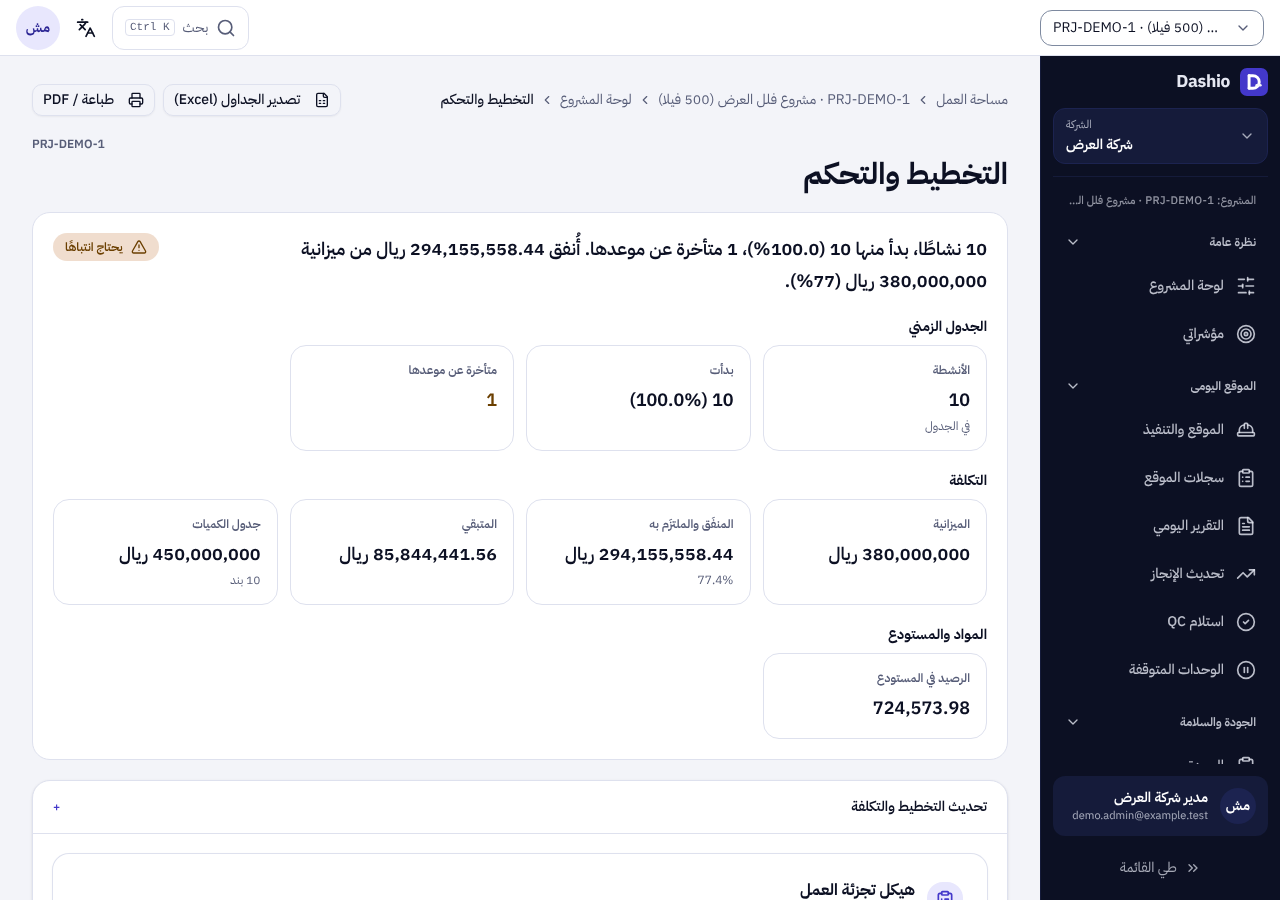
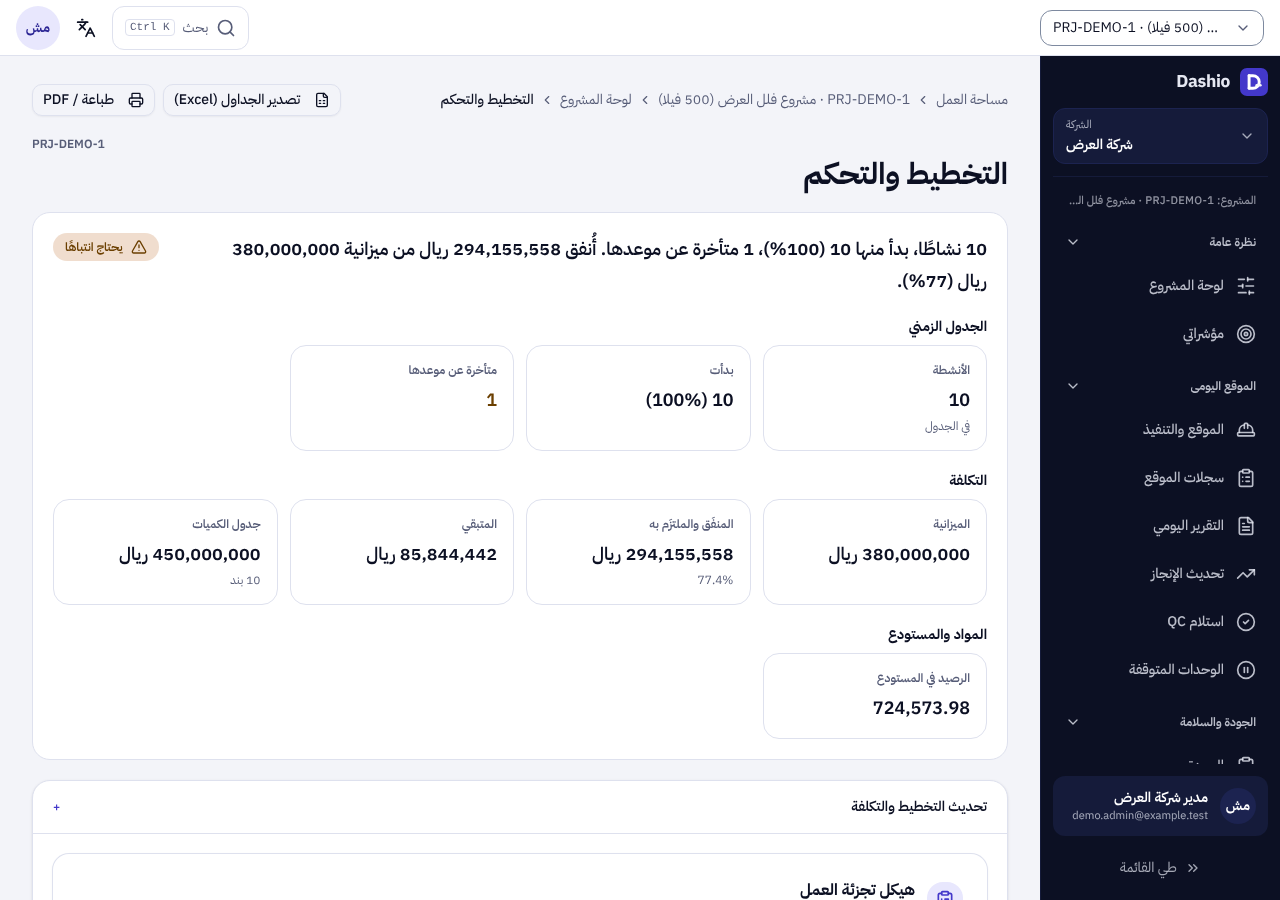
Q-64 batch 1: STATE entry, and the final screenshots (before and after, Arabic 390 and 1280)
Claude-Session: https://claude.ai/code/session_01WeudDb4hqtds8wNe44M1oW

diff --git a/docs/STATE.md b/docs/STATE.md
@@ -69,6 +69,15 @@
 | حدود معلنة: (أ) لا مقارنة لسطر «الإجمالي العام» في الملف بمجموع البنود (عمود المبلغ ليس من حقول BOQ)؛ (ب) شكل «تصدير P6 إلى Excel» ما زال بلا نسخة في المكتبة: مستورد الجدول الزمني من Excel يقبل ورقة واحدة بعناوين القالب، وتصدير P6 أوراق متعددة (TASK وPROJWBS…) — يحتاج قارئًا، لا اختبارًا فقط | `OPEN` | — |
 | البوابات والتدقيق | `PROVEN` (2026-11-26) | check · build · test 4561/0 · coverage:trpc · db:baseline:check · test:db 1028/0 · الرحلات 42/0. تدقيق الواجهة `/projects/:t/:p/baseline` بالعربية والإنجليزية والأردية: hard 0 |
 
+### Q-64 (الدفعة 1): صفحة «التخطيط والتحكم» تُفهم من أول نظرة (2026-11-26، المبرمج أ، واجهة بلا خادم ولا ترحيلة؛ المراجع د)
+
+| البند | الحالة | الدليل |
+|---|---|---|
+| شكوى المالك: بطاقات «0.000 / 0.000» بلا عملة ولا معنى، «0 / 31 أنشطة متأخرة / متعثرة» غامضة، نصوص داخلية («فجوات البيانات التي تمنع قرارًا كاملًا»، «الناقص: لقطة EVM»، «قراءة مشتقة فقط»)، وهيكل عمل قائمة مسطحة بـ1413 سطرًا كلها «0.00%»، والرابط ينتهي بـ`#manager-assurance`. **المعالجة:** (1) `PlanningControlCenter` أُعيد بناؤه: **جملة واحدة** بلغة مهندس التخطيط من البيانات («31 نشاطًا، بدأ منها 3 (9.7%)، 2 متأخرة عن موعدها.» وإن وُجدت ميزانية يراها القارئ: «أُنفق X من ميزانية Y (Z%)») من `planningHeadline` في `client/src/lib/planningControl.ts`؛ (2) أقسام بالترتيب: الجدول الزمني ← التكلفة ← المواد والمستودع، **القسم لا يظهر إلا إن وُجد ما يقال فيه**؛ (3) لا بطاقة بلا بيانات: الناقص **خطوة واحدة بزرّها** («لا ميزانية بعد» ← «ارفع الميزانية»؛ «لا جدول زمني بعد» ← «ارفع الجدول») للقارئ الذي يملك الاستيراد، وجملة بلا زر لمن لا يملكه، وجملة واحدة لمن لا يرى المبالغ (لا خطوة ميزانية ولا مبلغ)؛ (4) المبالغ بالريال كاملة من ألف فأكثر (294,155,558 لا 294,155,558.44) والنسب بلا كسر زائد (100% لا 100.0%) والكميات كما هي (12 لا 12.000)؛ (5) **هيكل العمل شجرة** (`client/src/components/WbsTree.tsx` + `client/src/lib/wbsTree.ts`): المستوى الأول مفتوح، لكل عقدة عدد أبنائها ونشاطاتها (مجموع ما تحتها) وأول بدء وآخر انتهاء، بحث برقم البند أو اسمه يُبقي المطابق ومساره، وتُقصَّر نتائج البحث عند 200 سطر بعبارة تقول ذلك؛ **«0.00%» وقيمة مخططة صفرية لم يقِسها أحد لا تظهر**؛ (6) نصوص الصفحة الداخلية أُعيدت بلغة المستخدم بالعربية والإنجليزية والأردية (ومنها إشعار «الناقص: لقطة EVM» صار «ما زال ناقصًا: قياس أداء الجدول والتكلفة (القيمة المكتسبة) وتقييم صحة المشروع.»)؛ (7) فتح مجموعة بالرابط (`#manager-…`) يفتحها ثم **يُسقط اسمها الداخلي من العنوان**؛ العناوين القديمة بالمرساة ما زالت تفتح ما سمّته | `PROVEN` (محليًا؛ 2026-11-26) | `PlanningControlCenter.test.tsx` (8): مشروع المالك (31 نشاطًا بلا ميزانية) = الجملة نفسها + خطوة الميزانية بزرّها، **ولا «0.000» ولا أي نص من قائمة النصوص الداخلية بالعربية والإنجليزية والأردية**، بلا قسم المواد ولا التكلفة؛ بميزانية: الأقسام والمبالغ بلا كسور؛ تجاوز الميزانية يُقال؛ بلا جدول: جملة وخطوة بلا شارة حالة؛ **سالب:** من لا يملك الاستيراد لا يرى زرًّا، ومن لا يرى المبالغ لا يرى خطوة ميزانية ولا مبلغًا؛ المواد تظهر بوجود طلب أو رصيد فقط؛ الأرقام لاتينية. `WbsTree.test.tsx` (7): 1,413 عقدة تفتح بمستواها الأول فقط (13 سطرًا) ولا «0.00%»، الفتح والطي، البحث بالرقم يُبقي المطابق ومساره، **سالب:** بحث بلا نتيجة يقول ذلك بلا سطر، مشروع فارغ، وتقدم مقيس يظهر وغير المقيس لا يظهر، والشجرة النقية (أب ناقص يبقى ظاهرًا، دورة لا تعلّق). `ProjectControls.resilience.test.tsx`: اختبار العنوان **يسقط على السابق** (`#manager-assurance` يبقى). اختبارات المكوّن الجديد تسقط كلها على المكوّن السابق |
+| اللقطات (عربي 390/1280): قبل وبعد لمشروع مستورد من XER بلا ميزانية (`PRJ-DEMO-3` من الشركة التجريبية، حالة المالك) وآخر بميزانية (`PRJ-DEMO-1`)، وشجرة هيكل العمل | `PROVEN` | `docs/screenshots/q-64-planning/before-*` و`after-*` (2026-11-26) |
+| تدقيق الواجهة `/planning` بالعربية والإنجليزية والأردية، سطح المكتب والهاتف | `PROVEN` | `tests/ui/audit.mjs` (`ROUTE_FILTER=/planning`): hard 0 في اللغات الثلاث؛ الملاحظات الخفيفة كلمات لاتينية هي أسماء (DEMO، Excel، XLSX، WEBP، Dashio، Ctrl) |
+| حدود معلنة | | (أ) **الدفعة 1 فقط:** القسم الأعلى وشجرة هيكل العمل وصياغة نصوصها والمرساة. **لم أنفّذ بعد** منحنى S («الإنجاز») لأنه يأتي من Q-61 (4) عند ج، ولا قسم «الأسبوعان القادمان» للجدول؛ الجملة لا تقول «المخطط حتى اليوم X%» لأن المخطط التراكمي غير محسوب بعد (تقول المتأخرة والبادئة فقط). (ب) مراجعة ux-writing للصفحة كلها (باقي أقسامها: نماذج الإضافة وسجلات التكلفة والتقدم والصحة) لم تُجرَ إلا لما ظهر في الشكوى ولنصوص الكتلة العليا والإشعارات؛ تحتاج دفعة 2. (ج) البحث في الشجرة يمسح ما حُمِّل في الصفحة (لا طلب خادم)، وهو كل هيكل المشروع. (د) لقطة «قبل» لمشروع المالك الحقيقي غير ممكنة (الملف لا يُرفع إلى المستودع)؛ الحالة تُمثَّلها `PRJ-DEMO-3`: جدول P6 بلا ميزانية |
+
 ### Q-61 (1): ملف P6 كبير (16 ألف نشاط و181 ألف سطر رمز) يُقرأ ويُكتب كاملًا (2026-11-26، المبرمج أ، بلا ترحيلة، يحتاج مراجعة مستقلة: استيراد)
 
 | البند | الحالة | الدليل |
